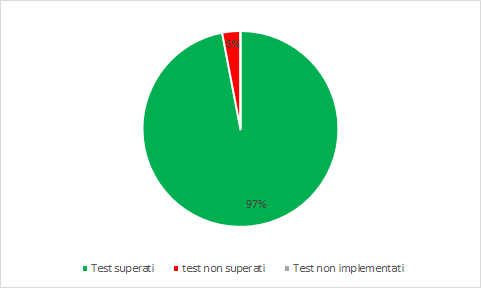
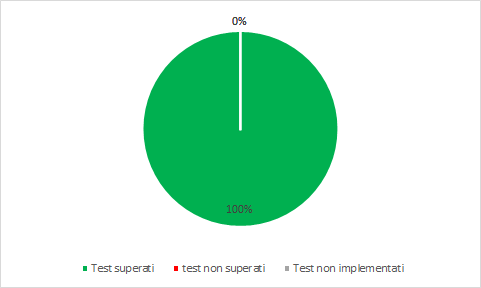
[PdQ] modifica TA

Changed region(s): [[0.4366, 0.0625, 0.5301, 0.4062], [0.4678, 0.6875, 0.5613, 0.75]]

diff --git a/RA/PianoDiQualifica/Res/Sezioni/SpecificaDeiTest.tex b/RA/PianoDiQualifica/Res/Sezioni/SpecificaDeiTest.tex
@@ -26,11 +26,6 @@ Per produrre software di qualità, il gruppo SWEefty definirà dei test per assi
 			\item premere sulla voce \emph{Mappa topologica} nel menù di \emph{Kibana};
 			\item verificare che i database vengano visualizzati.
 		\end{itemize}& \textcolor{green}{Superato} \\ \hline
-		TA1F1.1.3&L'utente intende verificare che vengano visualizzati nella mappa topologica i server cluster. All'utente e richiesto di:
-		\begin{itemize}
-			\item premere sulla voce \emph{Mappa topologica} nel menù di \emph{Kibana};
-			\item verificare che i server cluster vengano visualizzati.
-		\end{itemize}& \textcolor{red}{Non Superato} \\ \hline
 		TA1F1.2&L'utente intende verificare che ogni tipologia di componente dell'applicazione monitorata venga rappresentata graficamente in modo diverso dalle altre. All'utente è richiesto di:
 		\begin{itemize}
 			\item premere sulla voce \emph{Mappa topologica} nel menù di \emph{Kibana};
@@ -219,7 +214,6 @@ Per produrre software di qualità, il gruppo SWEefty definirà dei test per assi
 		TA0F1.1&R0F1.1 \\ \hline
 		TA0F1.1.1&R0F1.1.1 \\ \hline
 		TA0F1.1.2&R0F1.1.2 \\ \hline
-		TA1F1.1.3&R1F1.1.3 \\ \hline
 		TA1F1.2&R1F1.2 \\ \hline
 		TA1F1.3&R1F1.3 \\ \hline
 		TA1F1.4&R1F1.4 \\ \hline
